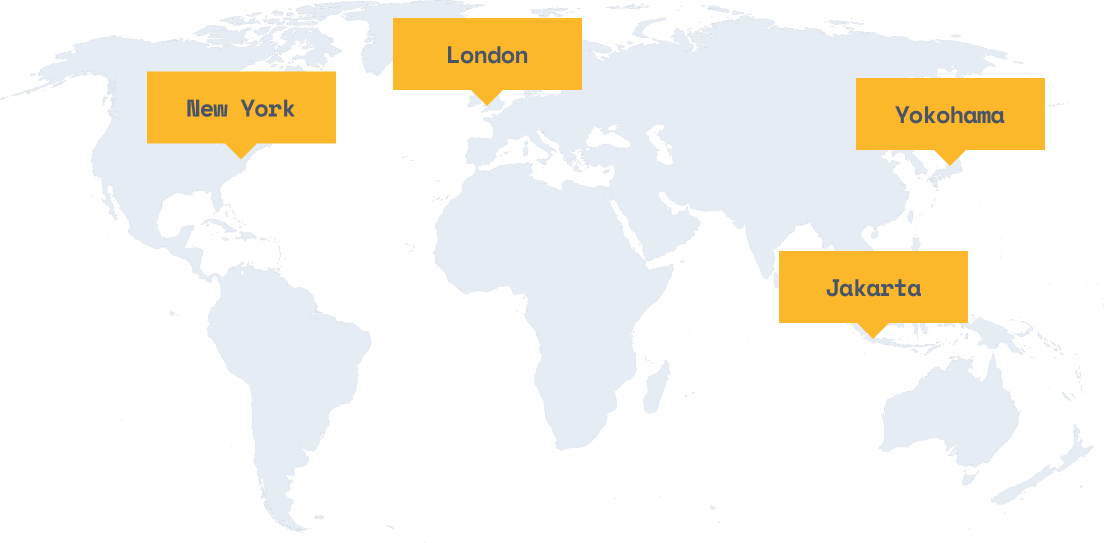
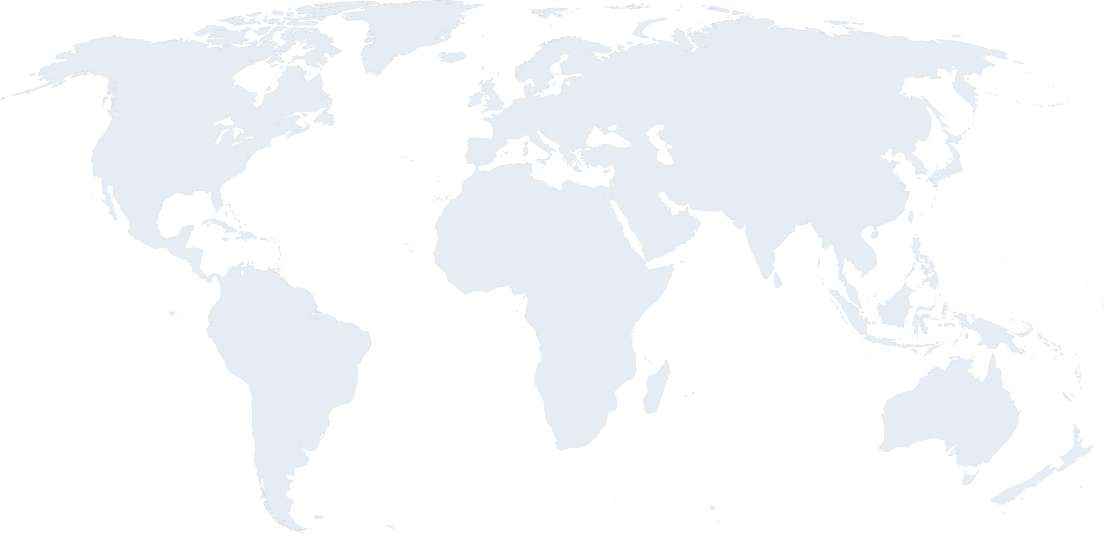
final

diff --git a/about.html b/about.html
@@ -119,9 +119,11 @@
                 <h4 class="faq__question heading">How do I download the app?</h4>
                 <button class="faq__button"></button>
               </div>
-              <p class="faq__answer">To download the Scoot app, you can search “Scoot” in both the App and Google Play
-                stores. An even simpler way to do it would be to click the relevant link at the bottom of this page and
-                you’ll be re-directed to the correct page.</p>
+              <div class="faq__answer-box">
+                <p class="faq__answer">To download the Scoot app, you can search “Scoot” in both the App and Google Play
+                  stores. An even simpler way to do it would be to click the relevant link at the bottom of this page and
+                  you’ll be re-directed to the correct page.</p>
+              </div>
 
             </li>
             <li class="faqs__item faq">
@@ -129,9 +131,11 @@
                 <h4 class="faq__question heading">Can I find a nearby Scoots?</h4>
                 <button class="faq__button"></button>
               </div>
-              <p class="faq__answer">To download the Scoot app, you can search “Scoot” in both the App and Google Play
-                stores. An even simpler way to do it would be to click the relevant link at the bottom of this page and
-                you’ll be re-directed to the correct page.</p>
+              <div class="faq__answer-box">
+                <p class="faq__answer">To download the Scoot app, you can search “Scoot” in both the App and Google Play
+                  stores. An even simpler way to do it would be to click the relevant link at the bottom of this page and
+                  you’ll be re-directed to the correct page.</p>
+              </div>
 
             </li>
             <li class="faqs__item faq">
@@ -139,9 +143,11 @@
                 <h4 class="faq__question heading">Do I need a license to ride?</h4>
                 <button class="faq__button"></button>
               </div>
-              <p class="faq__answer">To download the Scoot app, you can search “Scoot” in both the App and Google Play
-                stores. An even simpler way to do it would be to click the relevant link at the bottom of this page and
-                you’ll be re-directed to the correct page.</p>
+              <div class="faq__answer-box">
+                <p class="faq__answer">To download the Scoot app, you can search “Scoot” in both the App and Google Play
+                  stores. An even simpler way to do it would be to click the relevant link at the bottom of this page and
+                  you’ll be re-directed to the correct page.</p>
+              </div>
 
             </li>
 
@@ -155,9 +161,11 @@
                 <h4 class="faq__question heading">Should I wear a helmet?</h4>
                 <button class="faq__button"></button>
               </div>
-              <p class="faq__answer">To download the Scoot app, you can search “Scoot” in both the App and Google Play
-                stores. An even simpler way to do it would be to click the relevant link at the bottom of this page and
-                you’ll be re-directed to the correct page.</p>
+              <div class="faq__answer-box">
+                <p class="faq__answer">To download the Scoot app, you can search “Scoot” in both the App and Google Play
+                  stores. An even simpler way to do it would be to click the relevant link at the bottom of this page and
+                  you’ll be re-directed to the correct page.</p>
+              </div>
 
             </li>
             <li class="faqs__item faq">
@@ -165,9 +173,11 @@
                 <h4 class="faq__question heading">How about the rules & regulations?</h4>
                 <button class="faq__button"></button>
               </div>
-              <p class="faq__answer">To download the Scoot app, you can search “Scoot” in both the App and Google Play
-                stores. An even simpler way to do it would be to click the relevant link at the bottom of this page and
-                you’ll be re-directed to the correct page.</p>
+              <div class="faq__answer-box">
+                <p class="faq__answer">To download the Scoot app, you can search “Scoot” in both the App and Google Play
+                  stores. An even simpler way to do it would be to click the relevant link at the bottom of this page and
+                  you’ll be re-directed to the correct page.</p>
+              </div>
 
             </li>
             <li class="faqs__item faq">
@@ -175,9 +185,11 @@
                 <h4 class="faq__question heading">What if I damage my Scoot?</h4>
                 <button class="faq__button"></button>
               </div>
-              <p class="faq__answer">To download the Scoot app, you can search “Scoot” in both the App and Google Play
-                stores. An even simpler way to do it would be to click the relevant link at the bottom of this page and
-                you’ll be re-directed to the correct page.</p>
+              <div class="faq__answer-box">
+                <p class="faq__answer">To download the Scoot app, you can search “Scoot” in both the App and Google Play
+                  stores. An even simpler way to do it would be to click the relevant link at the bottom of this page and
+                  you’ll be re-directed to the correct page.</p>
+              </div>
 
             </li>
           </ul>

diff --git a/css/styles.css b/css/styles.css
@@ -208,6 +208,7 @@ img {
 }
 
 
+
 .hero__container {
   position: relative;
 }
@@ -476,6 +477,25 @@ img {
   background-repeat: no-repeat;
   background-position: calc(50% + 300px) calc(50% + 200px);
 }
+
+
+
+@media only screen and (-webkit-min-device-pixel-ratio: 2),
+only screen and (min--moz-device-pixel-ratio: 2),
+only screen and (-o-min-device-pixel-ratio: 2/1),
+only screen and (min-device-pixel-ratio: 2),
+only screen and (min-resolution: 192dpi),
+only screen and (min-resolution: 2dppx) {
+  .signup {
+    background-image: url('../img/signup-bg@2x.png');
+  }
+  .hero{
+    background-image: url("../img/hero-bg@2x.png");
+  }
+
+
+}
+
 
 
 .signup__container {
@@ -855,9 +875,9 @@ img {
 
 .faqs__item {
   background-color: var(--main-light-grey);
-  padding: 32px 40px;
+  /* padding: 32px 40px; */
   transition: height 0.5s ease, background-color 0.3s ease;
-
+  /* padding-bottom: 32px   ; */
 }
 
 
@@ -866,6 +886,10 @@ img {
 }
 
 .faq__top{
+  padding-top: 32px ;
+  padding-left: 40px;
+  padding-right: 40px;
+  padding-bottom: 32px;
   position: relative;
   display: flex;
   align-items: center;
@@ -907,11 +931,31 @@ img {
   cursor: pointer;
 }
 
+.faq__answer-box{
+  height: 0;
+  transition: all 0.3s ease;
+}
+
+
+.faq--active .faq__answer-box{
+  height: 100%;
+}
+
+
+.faq--active .faq__answer-box {
+
+  padding-bottom: 32px;
+}
+
+
 
 .faq__answer{
+  padding-left: 40px;
+  padding-right: 40px;
+  margin-bottom: 10px;
   display: none;
   font-family: var(--heading-font);
-  margin-top: 24px;
+  margin-top: 0;
   margin-bottom: 0;
   font-weight: normal;
   font-size: 15px;
@@ -926,13 +970,28 @@ img {
   /* width: 100%; */
 }
 
-
+/*
 .faqs__item:not(.faq--active):hover{
   background-color: #FFF4DF;
+} */
+
+.faqs__item:hover{
+  background-color: #fff4df;
+}
+
+
+
+.faq--active{
+
+  transition: all 0.3s ease;
+}
+
+.faq__answer-box{
+  transform: translateY(-20%);
 }
 
 .faq--active .faq__answer{
-  transition: height 0.3s ease;
+  transform: translateY(20%);
 }
 .faq--active .faq__button{
   background-image: url("../img/arrow-up.png");
@@ -982,10 +1041,61 @@ img {
 }
 
 .map__inner{
+  position: relative;
   height: 543px;
   width: 100%;
   margin-bottom: 120px;
 }
+
+.map__country {
+  position: absolute;
+  display: inline-block;
+  width: 120px;
+  height: 32px;
+  background-color: var(--main-yellow);
+  font-weight: bold;
+  font-size: 13px;
+  line-height: 28px;
+  letter-spacing: -0.6px;
+  color: #495567;
+  display: flex;
+  justify-content: center;
+  align-items: center;
+}
+
+.map__country::after{
+  position: absolute;
+  top: 100%;
+  content: '';
+  display: block;
+  border: 8px solid var(--main-yellow);
+  border-top-color:var(--main-yellow) ;
+  border-bottom-color: transparent;
+  border-left-color: transparent;
+  border-right-color: transparent;
+}
+
+.map__country--new-your {
+  top: 93px;
+  left: 235px;
+}
+
+.map__country--london {
+  top: 68px;
+  left: 432px;
+
+}
+
+.map__country--yokohoma {
+  top: 120px;
+  right: 100px;
+}
+
+.map__country--jakarta {
+  right: 174px;
+  bottom: 210px;
+}
+
 
 .map__img {
   display: block;

diff --git a/location.html b/location.html
@@ -47,6 +47,10 @@
       <div class="map__contaianer container">
         <div class="map__inner">
           <img src="img/location-map.png" alt="" class="map__img">
+          <span class="map__country map__country--new-your heading">New York</span>
+          <span class="map__country map__country--london heading">London</span>
+          <span class="map__country map__country--yokohoma heading">Yokohama</span>
+          <span class="map__country map__country--jakarta heading">Jakarta</span>
         </div>
         <div class="map__desc">
           <h2 class="map__heading heading">Your city not listed?</h2>
